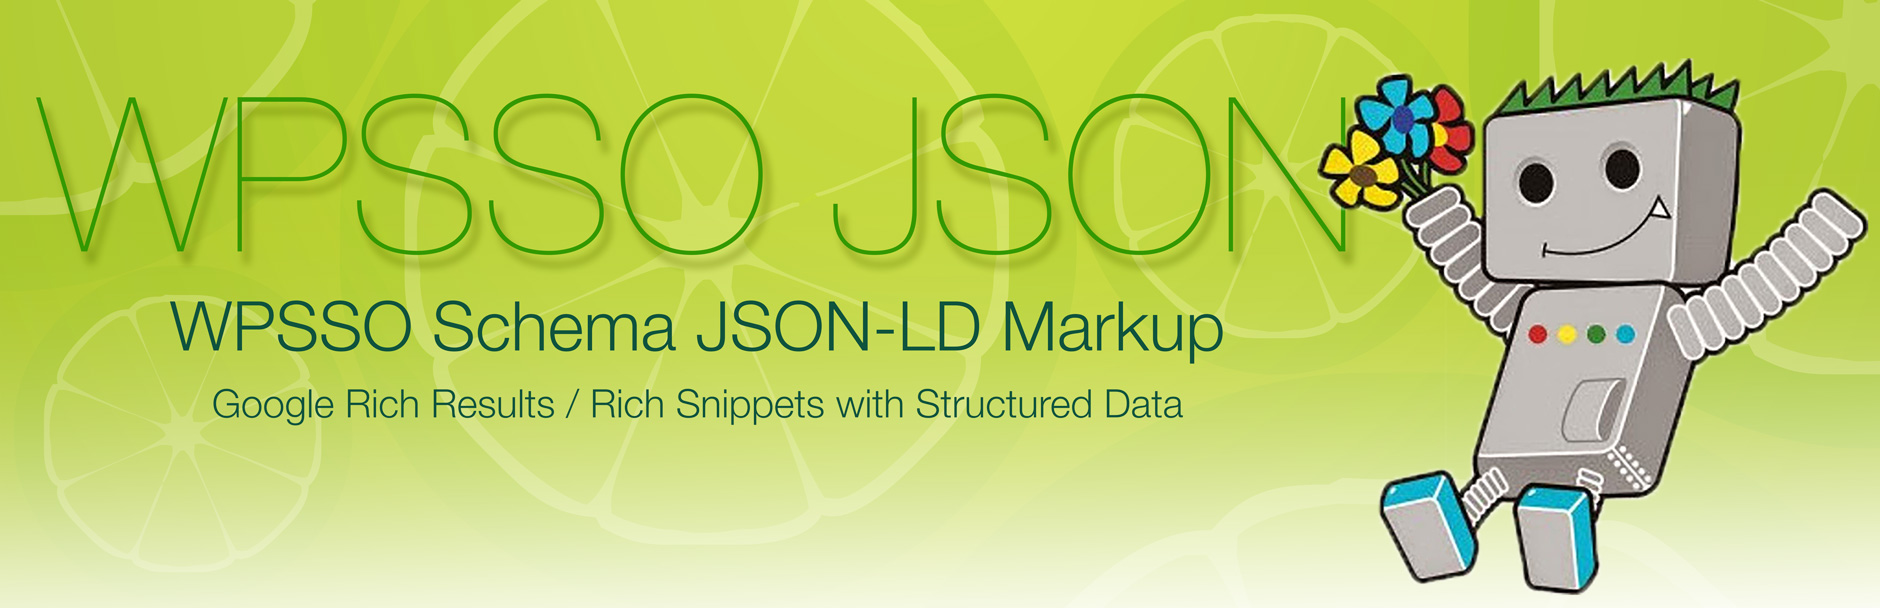
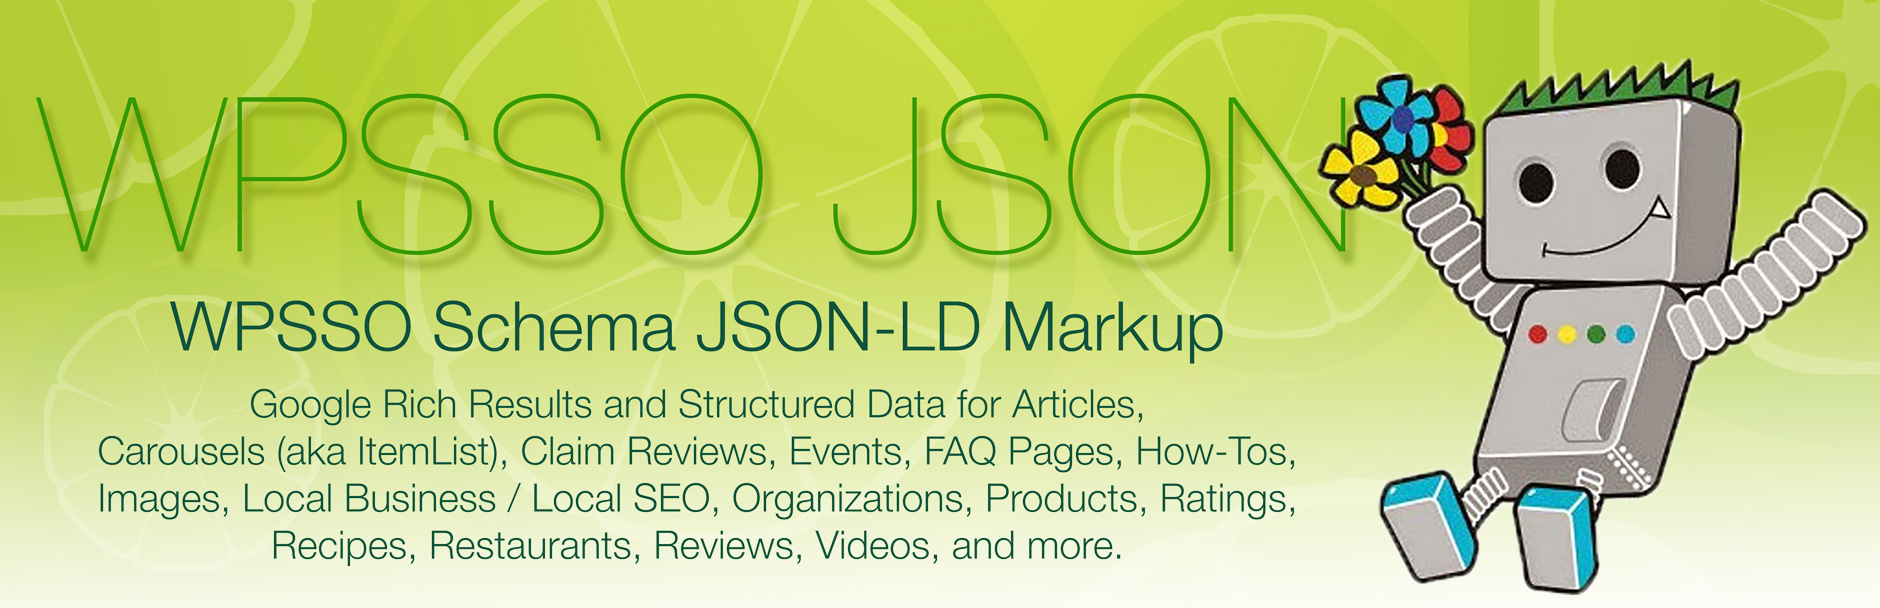
non-essential support files (documentation and assets)

diff --git a/index.html b/index.html
@@ -46,9 +46,9 @@
 
 <p><strong>Supports over 495 different Schema types and sub-types:</strong></p>
 
-<p>Provides Google Rich Results and Structured Data for Articles, Carousels (aka ItemList), Claim Reviews, Events, FAQ Pages, How-Tos, Images, Local Business / Local SEO, Organizations, Products, Ratings, Recipes, Restaurants, Reviews, Videos, and more.</p>
+<p>Google Rich Results and Structured Data for Articles, Carousels (aka ItemList), Claim Reviews, Events, FAQ Pages, How-Tos, Images, Local Business / Local SEO, Organizations, Products, Ratings, Recipes, Restaurants, Reviews, Videos, and more.</p>
 
-<p>This add-on uses filters to dynamically (and automatically) create Schema markup, allowing it to provide an almost unlimited number of Schema types, children sub-types, and properties inherited from each parent type (for example, Restaurant is a sub-type of Food Establishment, which is a sub-type of Local Business, which is sub-type of <em>both</em> Organization <em>and</em> Place, which are both sub-types of Thing).</p>
+<p>Uses filters to dynamically (and automatically) create Schema markup, allowing the WPSSO Schema JSON-LD Markup add-on to provide an almost unlimited number of Schema types, children sub-types, and properties inherited from each parent type (for example, Restaurant is a sub-type of Food Establishment, which is a sub-type of Local Business, which is sub-type of <em>both</em> Organization <em>and</em> Place, which are both sub-types of Thing).</p>
 
 <p><strong>Uses your existing WordPress content, plugin and service API data for accurate and comprehensive Schema JSON-LD markup:</strong></p>
 
